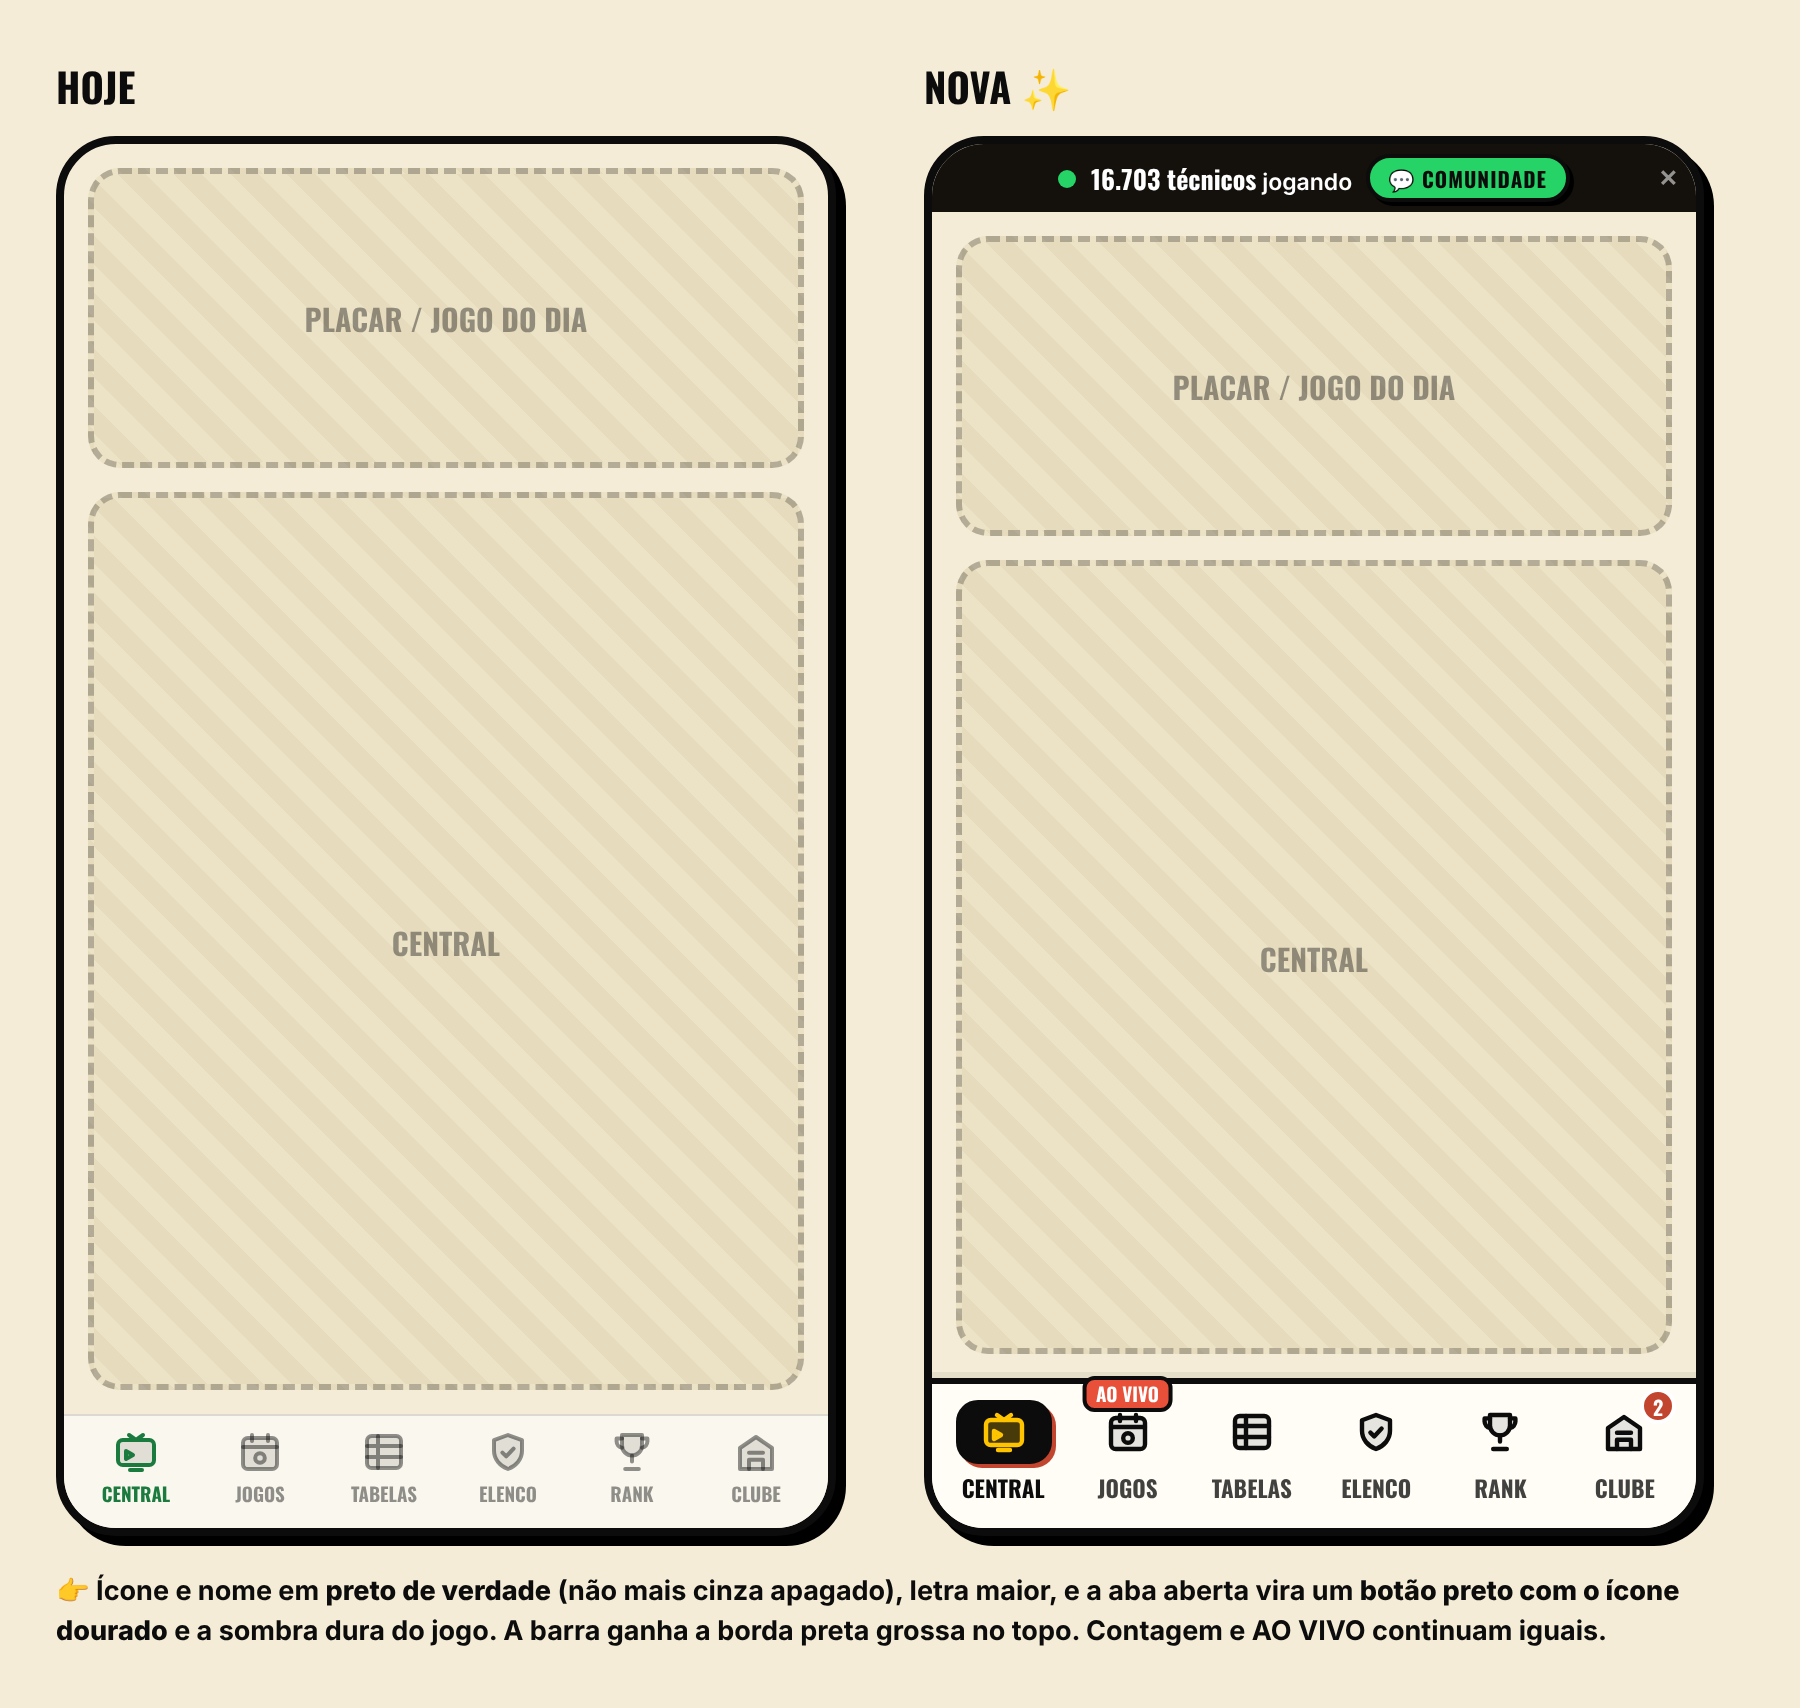
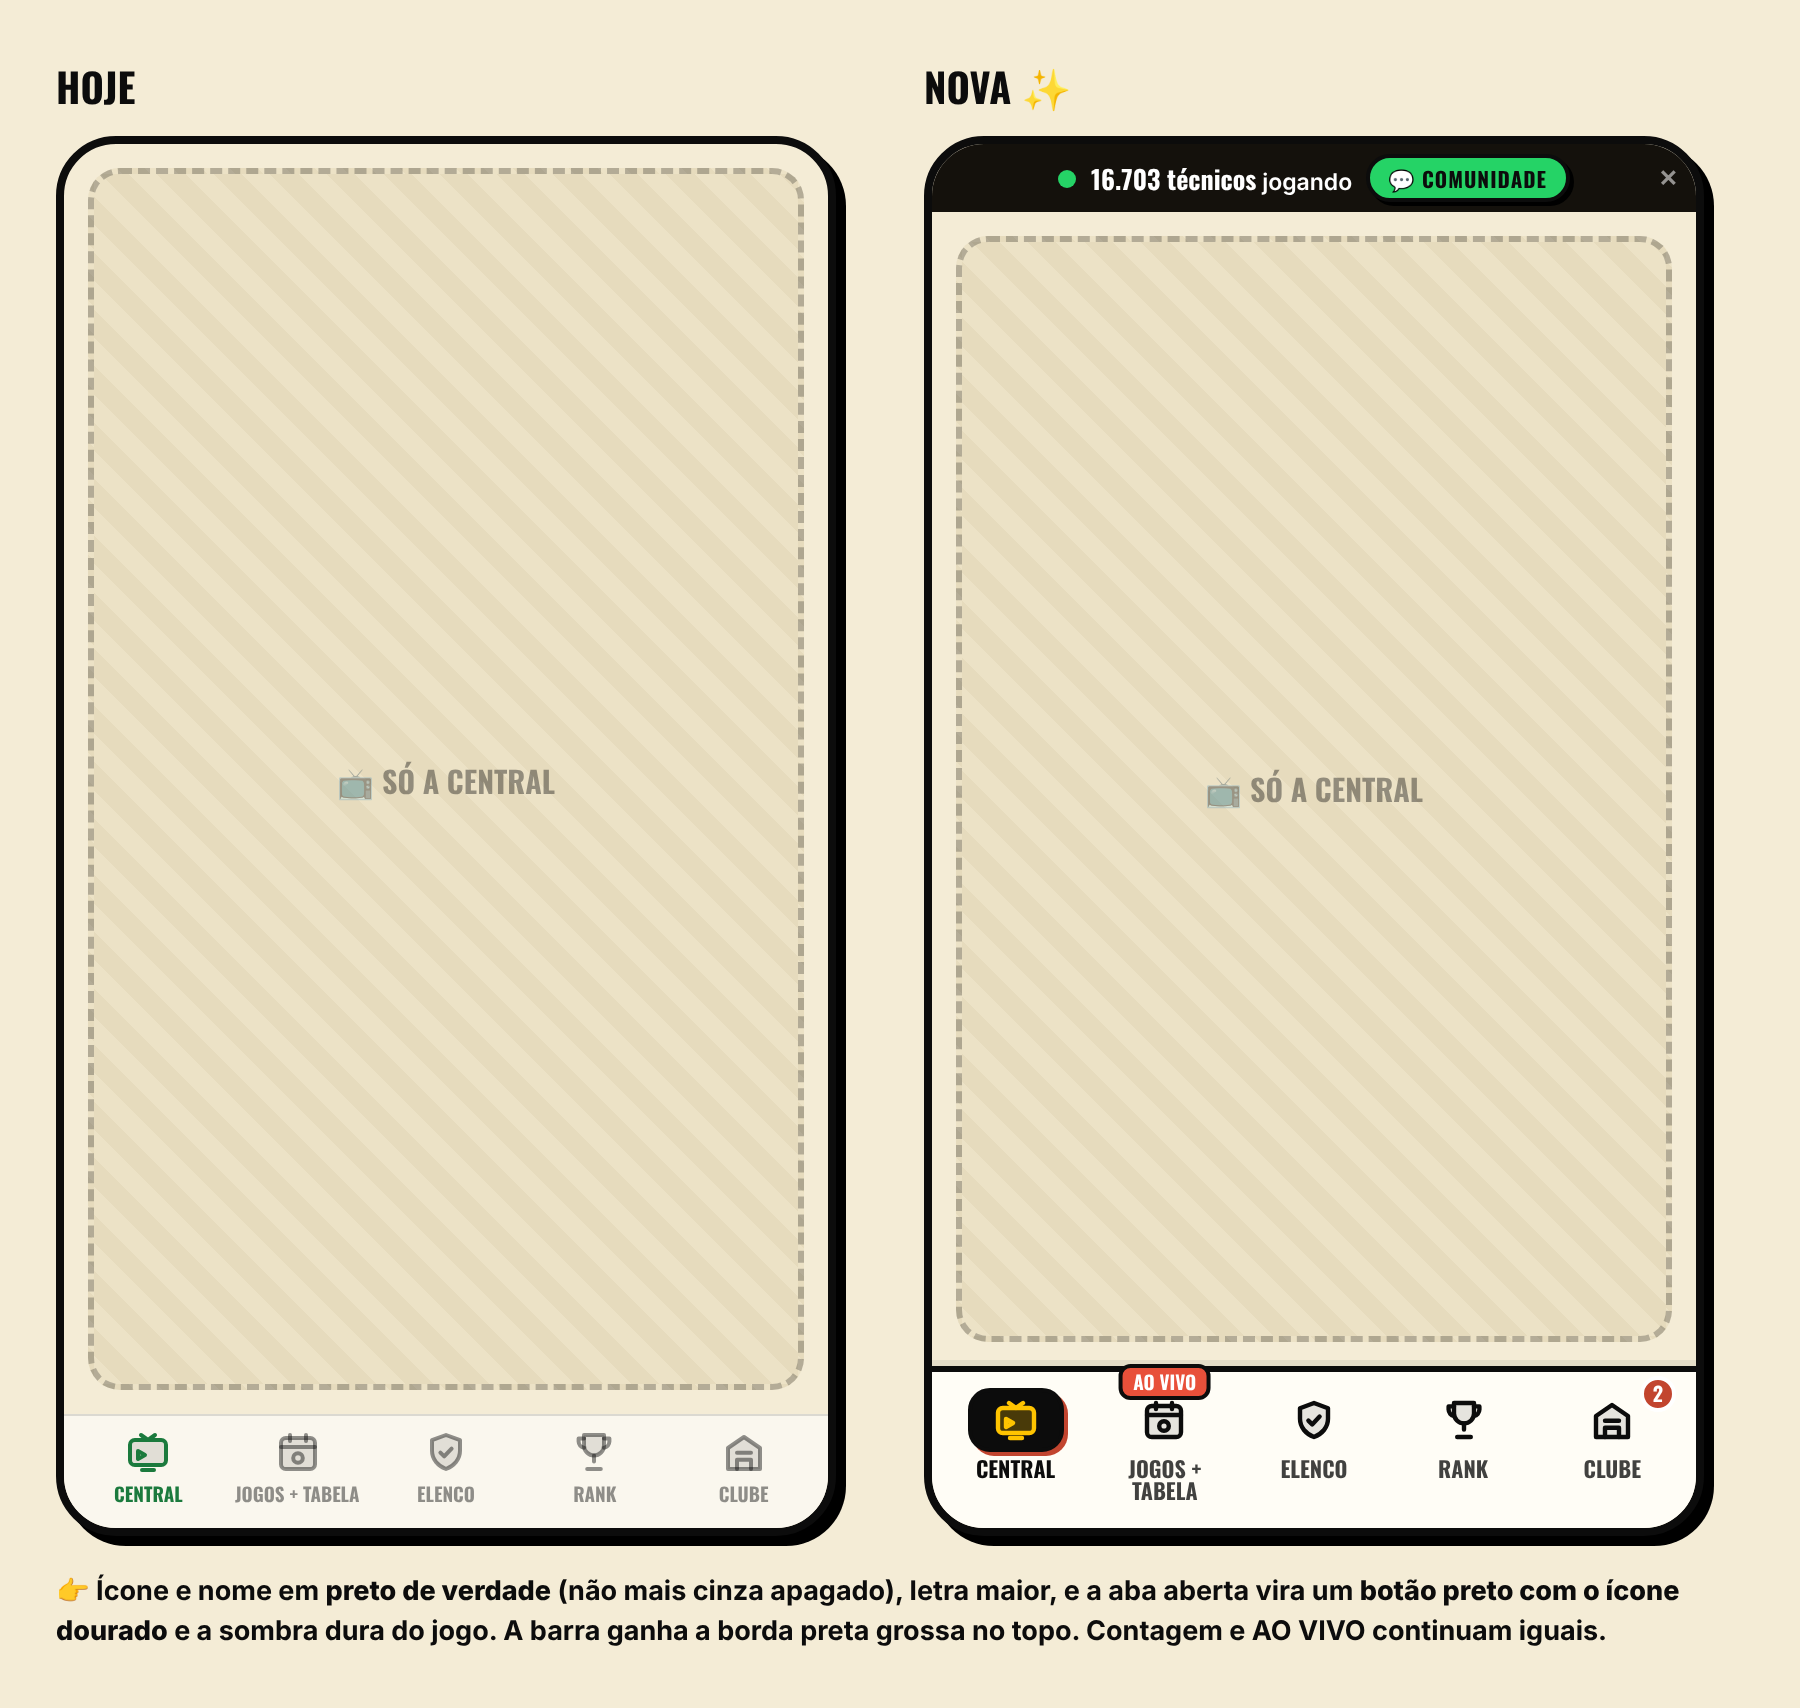
Mockup das abas v2: uma coisa só em cada aba e Jogos + Tabela numa aba só (5 abas); regra gravada no CLAUDE.md
Claude-Session: https://claude.ai/code/session_012GPrTDbpvrApA6DArkzCpE

diff --git a/CLAUDE.md b/CLAUDE.md
@@ -941,6 +941,9 @@ As sessões não se veem — o repo é a memória comum. Então TODA sessão dev
   (o mensal só vale em dia: **cancelou, perde a reserva** — *"se cancelar… não continua reservado"*). Nome de grátis não trava ninguém;
   grátis com nome de quem paga (ou de batismo alheio) leva o selo **🎭 FAKE** grudado no nome, decidido pelo BANCO (`esc_meu_nome_fake`)
   e lido no login, igual à medalha da semana. Batismo continua reservado pro dono como antes. É benefício de TODO plano (do Craque Salas).
+- **🧭 UMA COISA SÓ EM CADA ABA (27/10).** *"não gostei de você fazer várias coisas num lugar só. A central é só coisa da central,
+  jogos ali é só coisa dos jogos… jogo e tabela é na mesma página"*. Nunca juntar pedaços de abas diferentes numa tela (nada de
+  "3 colunas com clube + tabela + calendário" na Central, estilo Brasileirinho). Jogos + Tabela = uma aba só.
 - **⚔🚫 CLÃ NÃO VAI PRA HOME (27/10).** *"o clã N é pra ficar na home… o ranking do clã já fica lá embaixo das salas abertas"*. Na home só os PEDIDOS (amizade, convite de clã, pedido pro meu clã) com aceitar ali (`PedidosNaHome`). Não repropor bloco de clãs na home.
 - **🚫👤 SALA ONLINE = MÍNIMO 2 PESSOAS, SEMPRE (19/10, regra dele).** *"Só dá pra jogar com mínimo de 2 numa sala de usuários no
   online"*. Vale pra começar E pra recomeçar (mesmo time, novo leilão): sobrou 1 → volta pra sala de espera chamar gente. Nunca deixar

diff --git a/docs/pendencias.md b/docs/pendencias.md
@@ -8,6 +8,9 @@
 - Faixa da comunidade: "Já somos 16.703 técnicos… Entre na comunidade" (botão verde). ⚠ Em 23/10 ele pediu a faixa CLEAN
   (*"sem esse exagero todo do whatsapp"*) — a nova tem botão verde de novo; confirmar.
 - Mockups: `scripts/mockup-abas-carreira.mjs` → `scripts/mockups/abas-carreira-pc.png` e `abas-carreira-celular.png`.
+- 🔁 v2 (27/10, *"não gostei de você fazer várias coisas num lugar só… é uma coisa só em cada lugar"*): **cada aba mostra só o
+  que é dela** (nada de 3 colunas misturando clube/tabela na Central) e **Jogos + Tabela é UMA aba** → 5 abas: Central · Jogos +
+  Tabela · Elenco · Rank · Clube.
 
 ## 🔒 Nome reservado pra quem tem plano (27/10) — ✅ FEITO (mockup aprovado: *"aprovado"*)
 - Pedido: *"quem tem plano reserva o nome p sempre… quem não tem alguém pode fazer igual… o grátis irá aparecer joaquim fc fake"*.
